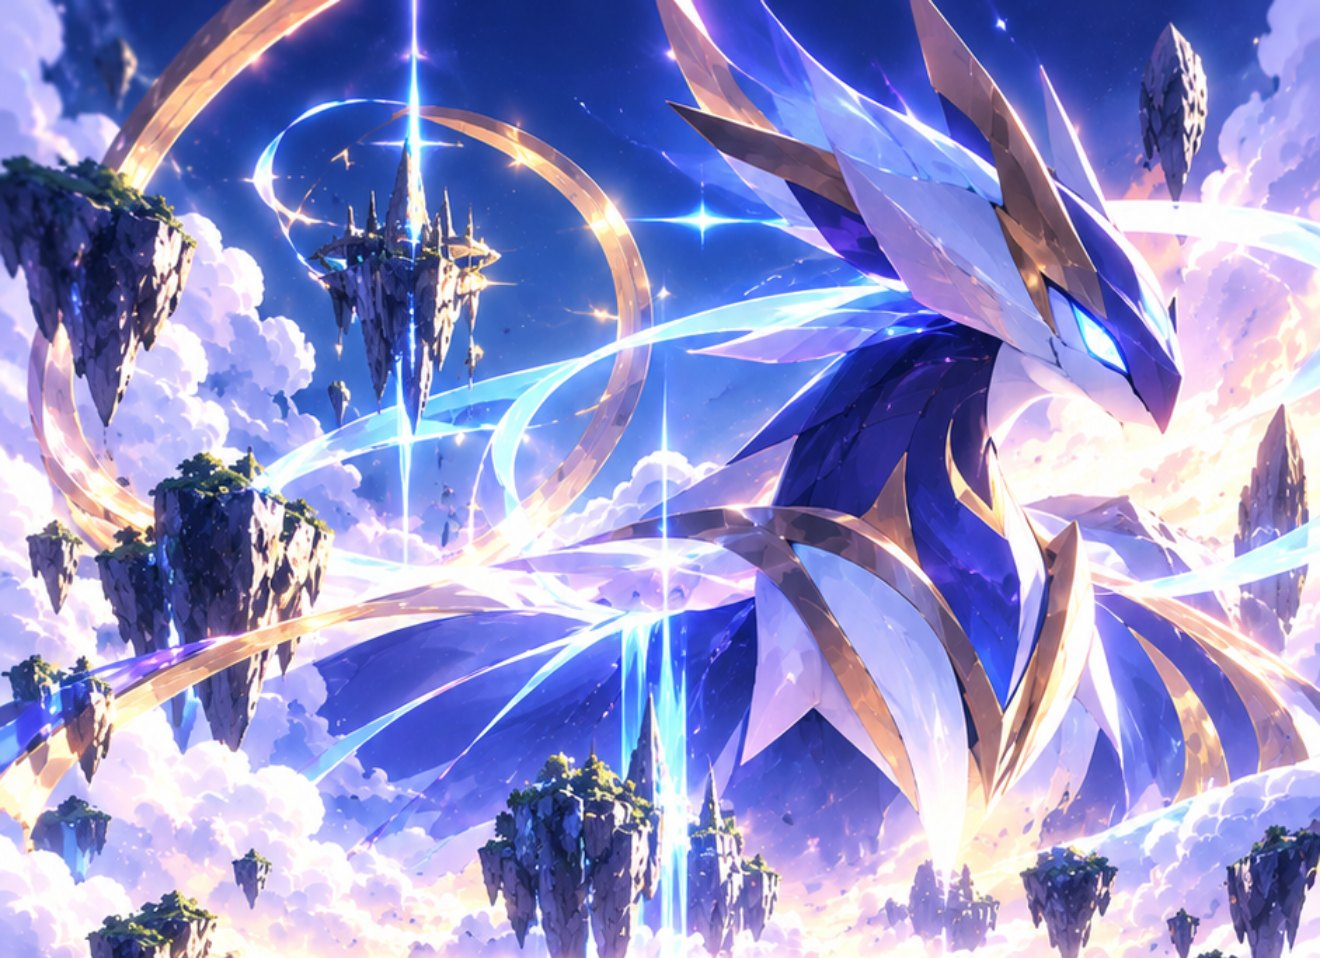
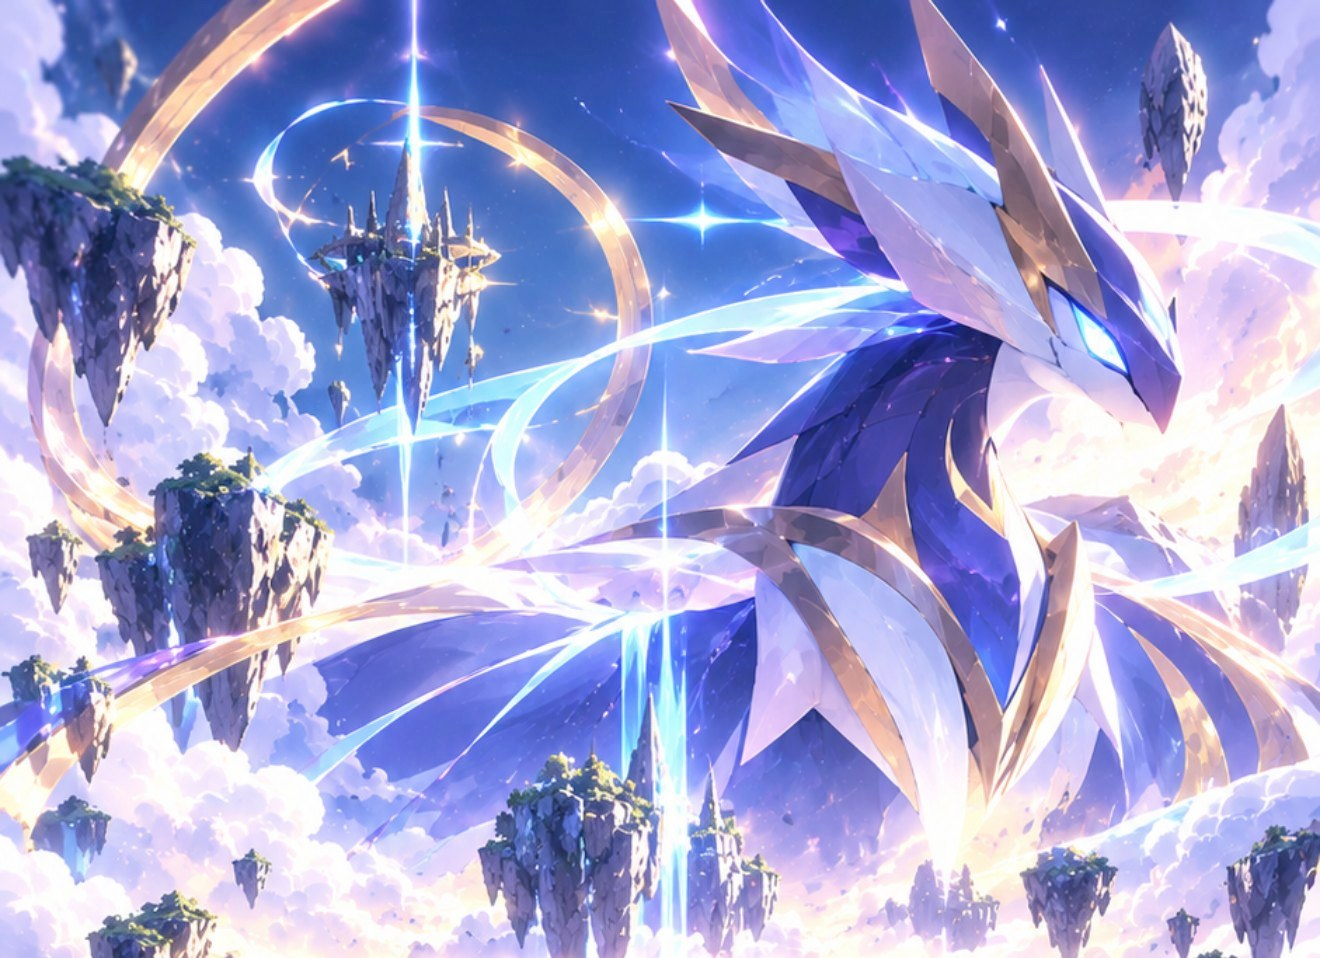
Éclaircit les zones sombres de la photo de fond, pas un bug de rendu
Après investigation poussée (retiré le drop-shadow, testé
premultipliedAlpha, même caché le canvas entièrement), l'aspect
"vitre teintée" signalé sur les coins du plateau n'était dû à aucun
de ces éléments : c'était simplement une zone naturellement plus
sombre de la photo de fond (haut du recadrage, ~95-140/255) qui se
retrouve exactement là où le plateau est posé.

Correction : courbe gamma (1.4) appliquée à la photo pour éclaircir
les ombres sans cramer les zones déjà claires — la zone la plus
sombre passe de ~95 à ~120/255, le reste de l'image progresse en
proportion, moins prononcé.

Remis aussi premultipliedAlpha au comportement par défaut (true) :
la valeur false testée plus tôt n'apportait rien ici et s'éloigne du
standard sans bénéfice démontré.

Claude-Session: https://claude.ai/code/session_01QhDLNPeqkC2rkMBKw1UuiV

diff --git a/board3d.js b/board3d.js
@@ -357,10 +357,12 @@ const hint3d = document.getElementById('hint3d');
 
 let renderer;
 try{
-  /* premultipliedAlpha:false évite le liseré sombre qui apparaît
-     sinon sur les bords antialiasés des cases/du centre, là où le
-     canvas transparent se fond avec la photo de fond derrière lui. */
-  renderer = new THREE.WebGLRenderer({ canvas, antialias:true, alpha:true, premultipliedAlpha:false, powerPreference:'high-performance' });
+  /* premultipliedAlpha:false causait une teinte visible sur tout ce
+     qui se voit à travers le canvas transparent (comparé au fond
+     direct hors du plateau) — revenu au comportement par défaut
+     (true), plus fidèle en couleur pour la composition avec la photo
+     derrière. */
+  renderer = new THREE.WebGLRenderer({ canvas, antialias:true, alpha:true, powerPreference:'high-performance' });
 }catch(e){
   const fb = document.createElement('div');
   fb.className = 'gl-fallback';
